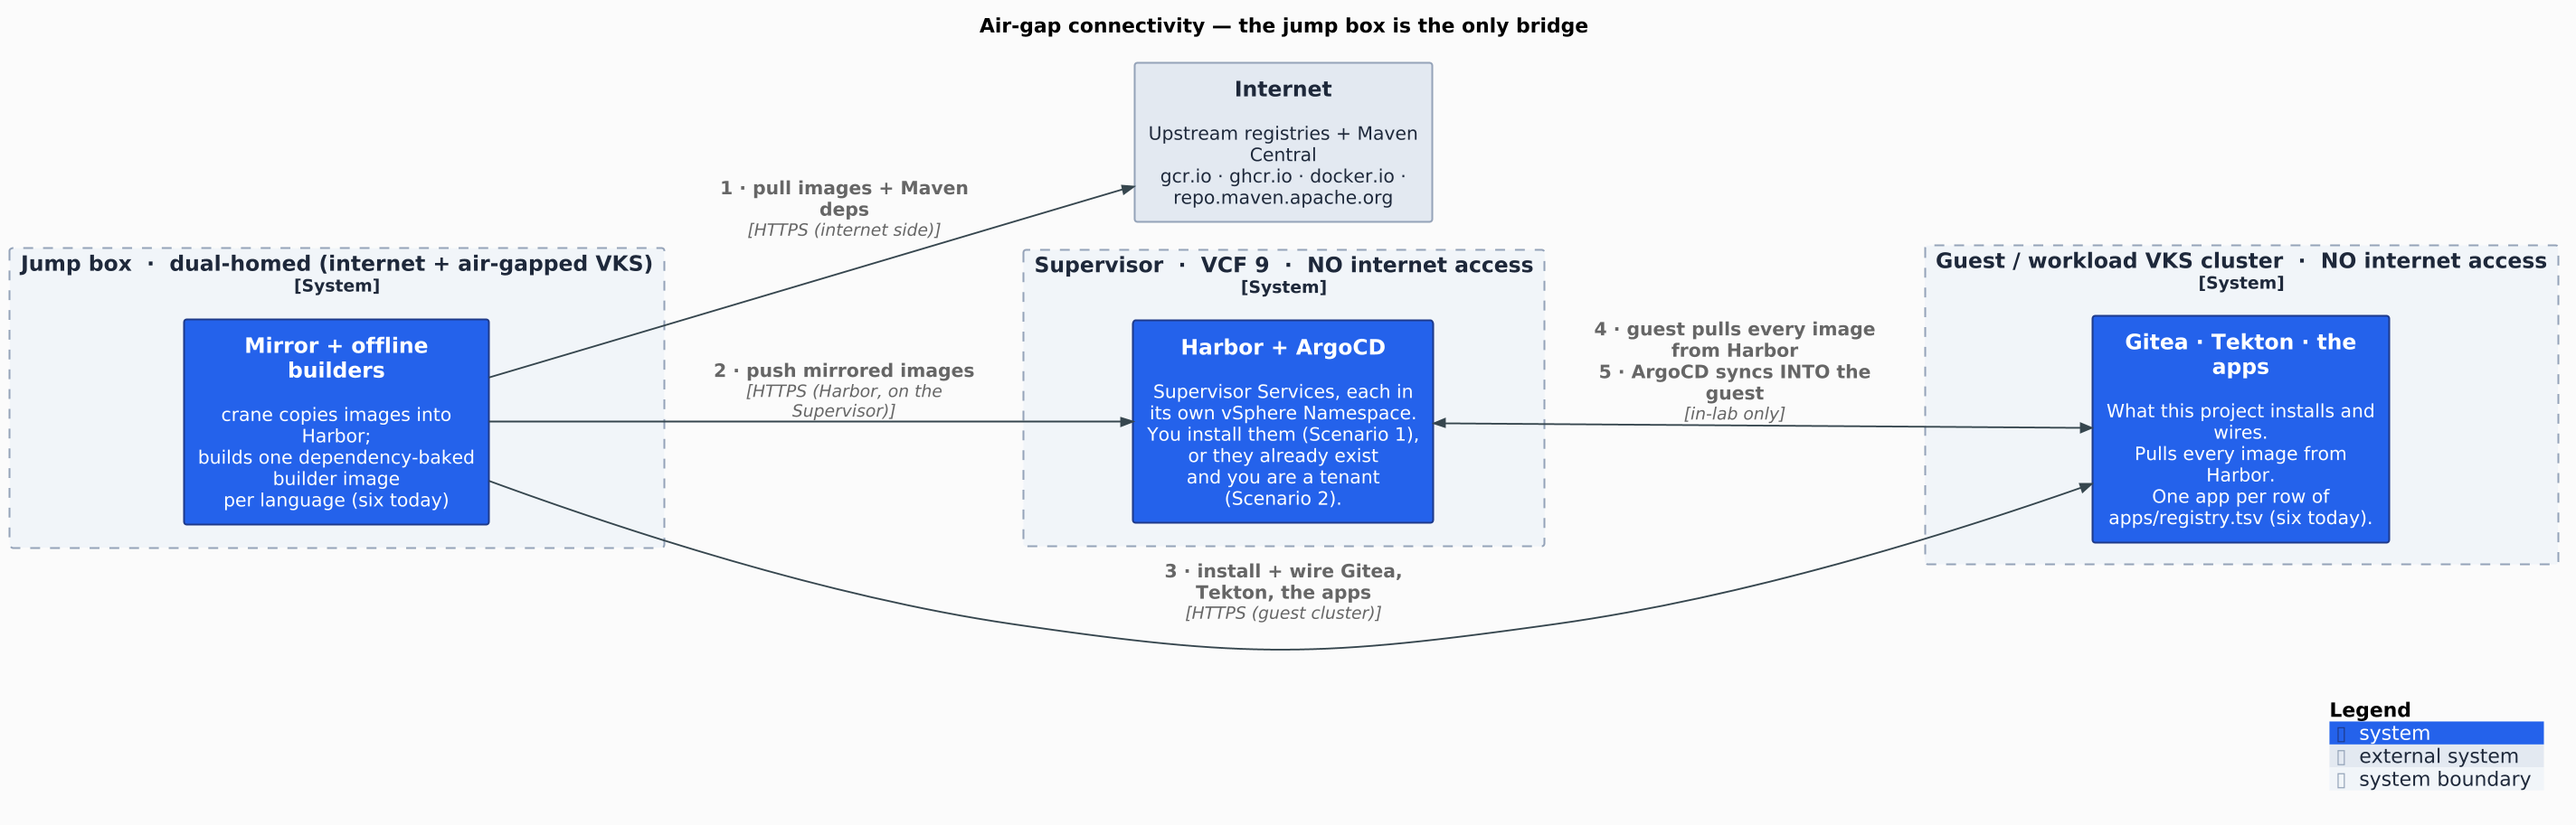
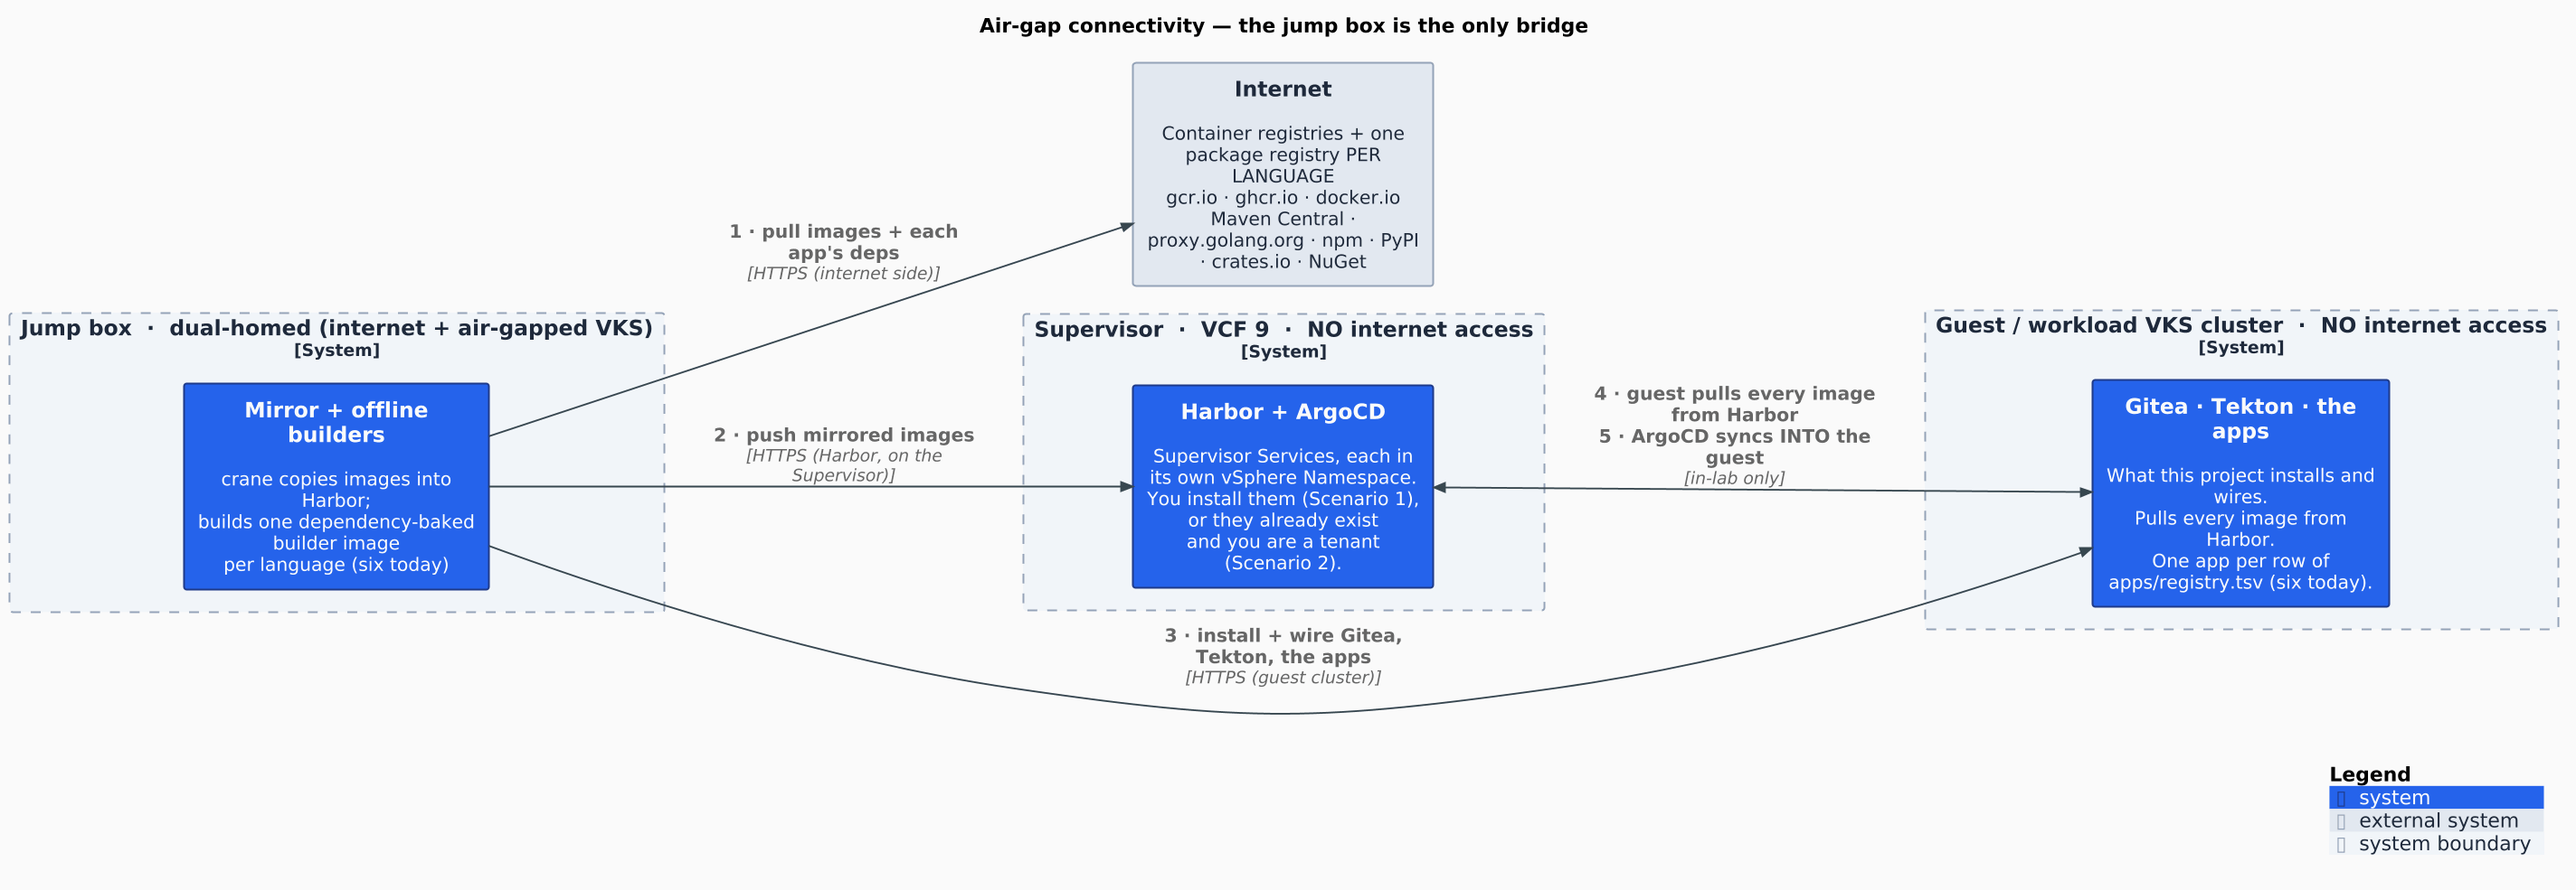
docs: "Maven" stood in for SIX package ecosystems in 13 places; name all six everywhere (#1020)
Measured what each builder actually fetches, from its own build command:

  javawebapp    ./mvnw -B verify                  Maven Central
  gowebapp      go mod download                   proxy.golang.org
  nodejswebapp  npm ci                            registry.npmjs.org
  pythonwebapp  pip install -r requirements.txt   PyPI
  rustwebapp    cargo fetch --locked              crates.io
  dotnetwebapp  dotnet restore                    nuget.org

Every doc and diagram named ONE of them. The operational consequence is real: a jump box allowlisted
for Maven Central only fails `builder-build` on five of six apps.

FIXED
  airgap.puml, sneakernet.puml, context.puml   "Upstream registries + Maven Central" and
                                               "pull images + Maven deps" -> all six named
  README.md                                    "~/.m2 for Java, the module cache for Go, and so on"
                                               -> a six-row table: app, cache it bakes, registry
  docs/sizing.md                               new six-row requirements table (build image, runtime
                                               base, cache, registry), derived from each app's own
                                               Dockerfile so it cannot drift from the code
  docs/tech-stack.md                           "dependency-baked Maven builder image" -> one per
                                               language, and the cache list is all six
[…]

diff --git a/docs/sizing.md b/docs/sizing.md
@@ -31,6 +31,23 @@ thing the jump box builds. **MEASURED 2026-08-23** (podman, `linux/amd64`, curre
 | pythonwebapp | **105 MB** | `python:3.14-alpine` 50 MB |
 | **total** | **≈ 4.3 GB** | **≈ 3.3 GB** |
 
+### What each language actually requires
+
+Derived from each app's `Dockerfile.builder` / `Dockerfile` (so it cannot drift from the code):
+
+| app | build image | runtime base | cache it bakes | fetched from |
+|---|---|---|---|---|
+| `javawebapp` | `maven:3.9-eclipse-temurin-25` | `eclipse-temurin:…-jre-jammy` | `~/.m2` | Maven Central |
+| `gowebapp` | `golang:1.27.0-bookworm` | `distroless/static-debian12` | Go module cache | `proxy.golang.org` |
+| `nodejswebapp` | `node:24-alpine` | `node:24-alpine` | `node_modules` | `registry.npmjs.org` |
+| `pythonwebapp` | `python:3.14-alpine` | `python:3.14-alpine` | the venv | PyPI |
+| `rustwebapp` | `rust:1.98-alpine` | `distroless/static-debian12` | cargo registry | `crates.io` |
+| `dotnetwebapp` | `mcr…/dotnet/sdk:10.0-alpine` | `mcr…/dotnet/aspnet:10.0-noble-chiseled` | NuGet cache | `nuget.org` |
+
+**The jump box needs egress to ALL SIX package registries**, not just Maven Central — `builder-build`
+fails on whichever one is blocked. Two apps (`nodejswebapp`, `pythonwebapp`) run on their build image
+as the runtime base; two (`gowebapp`, `rustwebapp`) ship a static binary on `distroless/static`.
+
 Realistic floor for a **dual-homed six-app walk**, measured against a box that hit `ENOSPC` at 15 G used:
 
 | component | size |
@@ -73,11 +90,15 @@ On the mirror cache itself:
 > multi-arch list digest must be preserved for the pull to resolve. The single-arch
 > saving therefore applies to the large tag-referenced images (Maven, Temurin, the builder).
 
-## What each language costs — every image, attributed
+## Java vs Go — a two-language deep-dive on build vs delivery cost
 
-The apps are not decoration — **they are the air-gap story**. Below is the **entire image set**,
-each image attributed to the language that needs it. Measured (registry-compressed, `linux/amd64`;
-the app images are the ones the pipeline actually built in the last KinD run).
+⚠ **This section covers TWO of the six apps.** It predates the six-app table above and is kept
+because the Java-vs-Go contrast is the clearest illustration of the build-side / delivery-side
+split. It is **not** the full image set — the builder figures above are, and they are newer. Node.js,
+Python, Rust and .NET are not attributed here; their builder sizes are in the six-app table.
+
+Measured (registry-compressed, `linux/amd64`; the app images are the ones the pipeline actually
+built in a KinD run).
 
 | Bucket | Image | Size |
 |---|---|---|
@@ -88,9 +109,9 @@ the app images are the ones the pipeline actually built in the last KinD run).
 | | **Java total** | **≈ 690 MB** |
 | **Go** | `golang` build image (tag pinned in `images/images.txt`) | 287 MB |
 | **Go** | `distroless/static-debian12` (runtime base) | 1 MB |
-| **Go** | *offline builder* | **none — the app is stdlib-only, so its air-gapped build fetches nothing** |
+| **Go** | `gowebapp-builder` — **offline builder, module cache pre-baked** | *not measured registry-compressed.* The six-app table above reports **1.00 GB LOCAL** — a different unit, so it cannot be added to this column. The row used to say "none"; that was wrong. |
 | **Go** | `gowebapp:<sha>` — the image the pipeline builds | **4.85 MB** |
-| | **Go total** | **≈ 293 MB** |
+| | **Go total** | **≈ 293 MB** — EXCLUDING the builder, which is not measured in this unit |
 | **Shared** | Tekton (Pipelines + Triggers + Dashboard) | **~2 GB** — dominates the mirror |
 | **Shared** | `gitea` 62 · `istio/proxyv2` 87 · `istio/pilot` 72 · `kaniko` 44 · `alpine/git` 35 · `traefik` 52 · `yq` 9 | 362 MB |
 | | **Shared total** | **≈ 2.4 GB** |
@@ -100,10 +121,11 @@ the app images are the ones the pipeline actually built in the last KinD run).
 1. **On the BUILD side the languages cost about the same** — Java 267 MB of mirrored images
    (maven + JRE) vs Go 284 MB (the `golang` image alone is *bigger* than Maven's). The interesting
    difference is not the compiler.
-2. **Java needs an offline builder and Go does not.** An in-cluster `mvn` cannot reach Maven Central,
-   so `Dockerfile.builder` bakes the whole `~/.m2` on the internet side — that is the **292 MB**, and
-   it is the single largest per-language cost in the repo. A stdlib-only Go build fetches **nothing**.
-   Same pipeline, one `case` branch in `lib/apps.sh`.
+2. **EVERY app needs an offline builder — and they cost wildly different amounts.** An in-cluster
+   build reaches no package registry, so each `Dockerfile.builder` bakes that language's cache on the
+   internet side. Java's `~/.m2` is the **292 MB** in this compressed column. It is NOT the largest in
+   the repo — by the local measure in the six-app table above, **rust (1.57 GB) and go (1.00 GB) are
+   both bigger than java (622 MB)**. Same pipeline, one `case` branch in `lib/apps.sh`.
 3. **On the DELIVERY side Go wins by ~27×** — a 4.85 MB static binary on `distroless/static` versus a
    130 MB JAR on a JRE. That is what you ship, and re-ship on every commit.
 

diff --git a/docs/decisions/sneakernet.md b/docs/decisions/sneakernet.md
@@ -45,6 +45,10 @@ a silent bit-flip is plausible, and it used to be silently optional at both ends
 
 ## 3. The builder is BUILT outside and PUSHED inside
 
+> The narrative below is the ORIGINAL two-app finding and is kept as written — it is why the split
+> exists. The repo now ships SIX apps and `builder-build` needs EVERY language's package registry,
+> not just Maven Central; the table is the current contract.
+
 `make builder-image` needed **both networks at once**: Maven Central (to bake `~/.m2`) *and* Harbor (its
 base ref, a pre-build login probe, and the push). On a sneakernet split **neither box can run it** — box A
 has no Harbor, box B has no Maven Central — so the mirror completed and the offline Java build could not
@@ -55,7 +59,7 @@ Split:
 
 | | box | network | how |
 |---|---|---|---|
-| `make builder-build` | A | Maven Central only | base pinned **by digest from `bundle/images.lock`** — byte-identical to the mirrored base, so no Harbor is needed and builder↔mirror alignment holds *by construction* (`images.txt` pins maven by tag, so a naive public pull could legitimately differ) |
+| `make builder-build` | A | the package registries only (Maven Central · proxy.golang.org · npm · PyPI · crates.io · NuGet) | base pinned **by digest from `bundle/images.lock`** — byte-identical to the mirrored base, so no Harbor is needed and builder↔mirror alignment holds *by construction* (`images.txt` pins maven by tag, so a naive public pull could legitimately differ) |
 | `make builder-push` | B | Harbor only | `crane push bundle/builders/<app>` — the destination ref is computed from `HARBOR_URL` **on box B**, which is the only box that knows it |
 | `make builder-image` | dual-homed | both | unchanged: build + push |
 

diff --git a/docs/tech-stack.md b/docs/tech-stack.md
@@ -13,7 +13,7 @@
 | Ingress | **Istio** (default) / **Traefik** (option) / **attach to an existing Istio** | One LoadBalancer fronting the UIs at `*.vks.local`; pluggable via `INGRESS_CONTROLLER` (`istio` \| `istio-existing` \| `traefik`) |
 | Image mirror | **crane** (go-containerregistry) | Copies images internet→Harbor (dual-homed) or into a sneakernet bundle, single- or multi-arch; a static Go binary, so it installs cross-distro via mise (incl. Photon OS 5, where skopeo has no static build/package) |
 | Demo apps | six, one per language — Java, Go, Node.js, Python, Rust, .NET. `apps/registry.tsv` is the list; adding one is a row. | **Six languages, ONE pipeline.** Each app's greeting proves *its own* deployed image changed end-to-end, so a green Java app can never hide a broken Rust one. Each builds from a pre-baked offline builder image — that is the air-gap story: no app reaches a package registry at build time. |
-| Offline build | dependency-baked **Maven** builder image | Bakes `~/.m2` so in-cluster `mvn` builds with no Maven Central reach |
+| Offline build | one dependency-baked builder image **per language** (six) | Bakes each language's dependency cache (`~/.m2`, the Go module cache, `node_modules`, the venv, the cargo registry, the NuGet cache) so an in-cluster build reaches NO package registry |
 | Local e2e | **KinD** + **cloud-provider-kind** | Stands up the Supervisor-Service pieces (Harbor + ArgoCD) locally with a real LoadBalancer |
 | Toolchain | **mise** | One cross-distro (Ubuntu/PhotonOS) version manager for the jump-box tools |
 

diff --git a/README.md b/README.md
@@ -33,9 +33,18 @@ a port-forward, so it needs no ingress and no `/etc/hosts` entry.
 *same* pipeline and verified independently. `apps/registry.tsv` is the single source of truth;
 everything else loops over it.
 
-An in-cluster build reaches no package registry, so every app ships a **pre-baked builder image**
-(`Dockerfile.builder`) carrying its own dependency cache — `~/.m2` for Java, the module cache for Go,
-and so on. All are built on the internet-connected jump box, pushed to Harbor, and consumed offline.
+An in-cluster build reaches **no package registry**, so every app ships a **pre-baked builder image**
+(`Dockerfile.builder`) carrying its own dependency cache. All six are built on the
+internet-connected jump box, pushed to Harbor, and consumed offline:
+
+| app | cache it bakes | fetched from |
+|---|---|---|
+| `javawebapp` | `~/.m2` (`./mvnw -B verify`) | Maven Central |
+| `gowebapp` | the Go module cache (`go mod download`) | `proxy.golang.org` |
+| `nodejswebapp` | `node_modules` (`npm ci`) | `registry.npmjs.org` |
+| `pythonwebapp` | the venv (`pip install -r requirements.txt`) | PyPI |
+| `rustwebapp` | the cargo registry (`cargo fetch --locked`) | `crates.io` |
+| `dotnetwebapp` | the NuGet cache (`dotnet restore`) | `nuget.org` |
 
 Adding an app is **one row** in `apps/registry.tsv` — see [Adding an app](docs/adding-an-app.md).
 

diff --git a/docs/sneakernet.md b/docs/sneakernet.md
@@ -105,7 +105,7 @@ run is the one that proves this box can actually run the install.
 
 ```bash
 make mirror-pull      # every image in images/images.txt → ./bundle
-make builder-build    # the offline Maven builder → ./bundle/builders/ (needs Maven Central; NOT Harbor)
+make builder-build    # one offline builder per language → ./bundle/builders/ (needs the package registries; NOT Harbor)
 make bundle           # → vks-airgap-cicd-bundle-<date>.tar  + its .sha256
 ```
 
@@ -115,8 +115,8 @@ make bundle           # → vks-airgap-cicd-bundle-<date>.tar  + its .sha256
 
 `mirror-pull` **resumes** — re-run it after a dropped connection and it skips what already completed.
 
-> **`builder-build` is not optional for the Java app.** Its Maven dependencies are baked into an image on
-> the internet side, because the in-cluster Kaniko build cannot reach Maven Central. The air-gap box cannot
+> **`builder-build` is not optional.** Each app's dependencies are baked into an image on
+> the internet side, because the in-cluster Kaniko build reaches NO package registry. The air-gap box cannot
 > build it (no internet) and the internet box cannot push it (no Harbor) — so it is **carried in the bundle**
 > and pushed on the far side by `make builder-push`.
 
